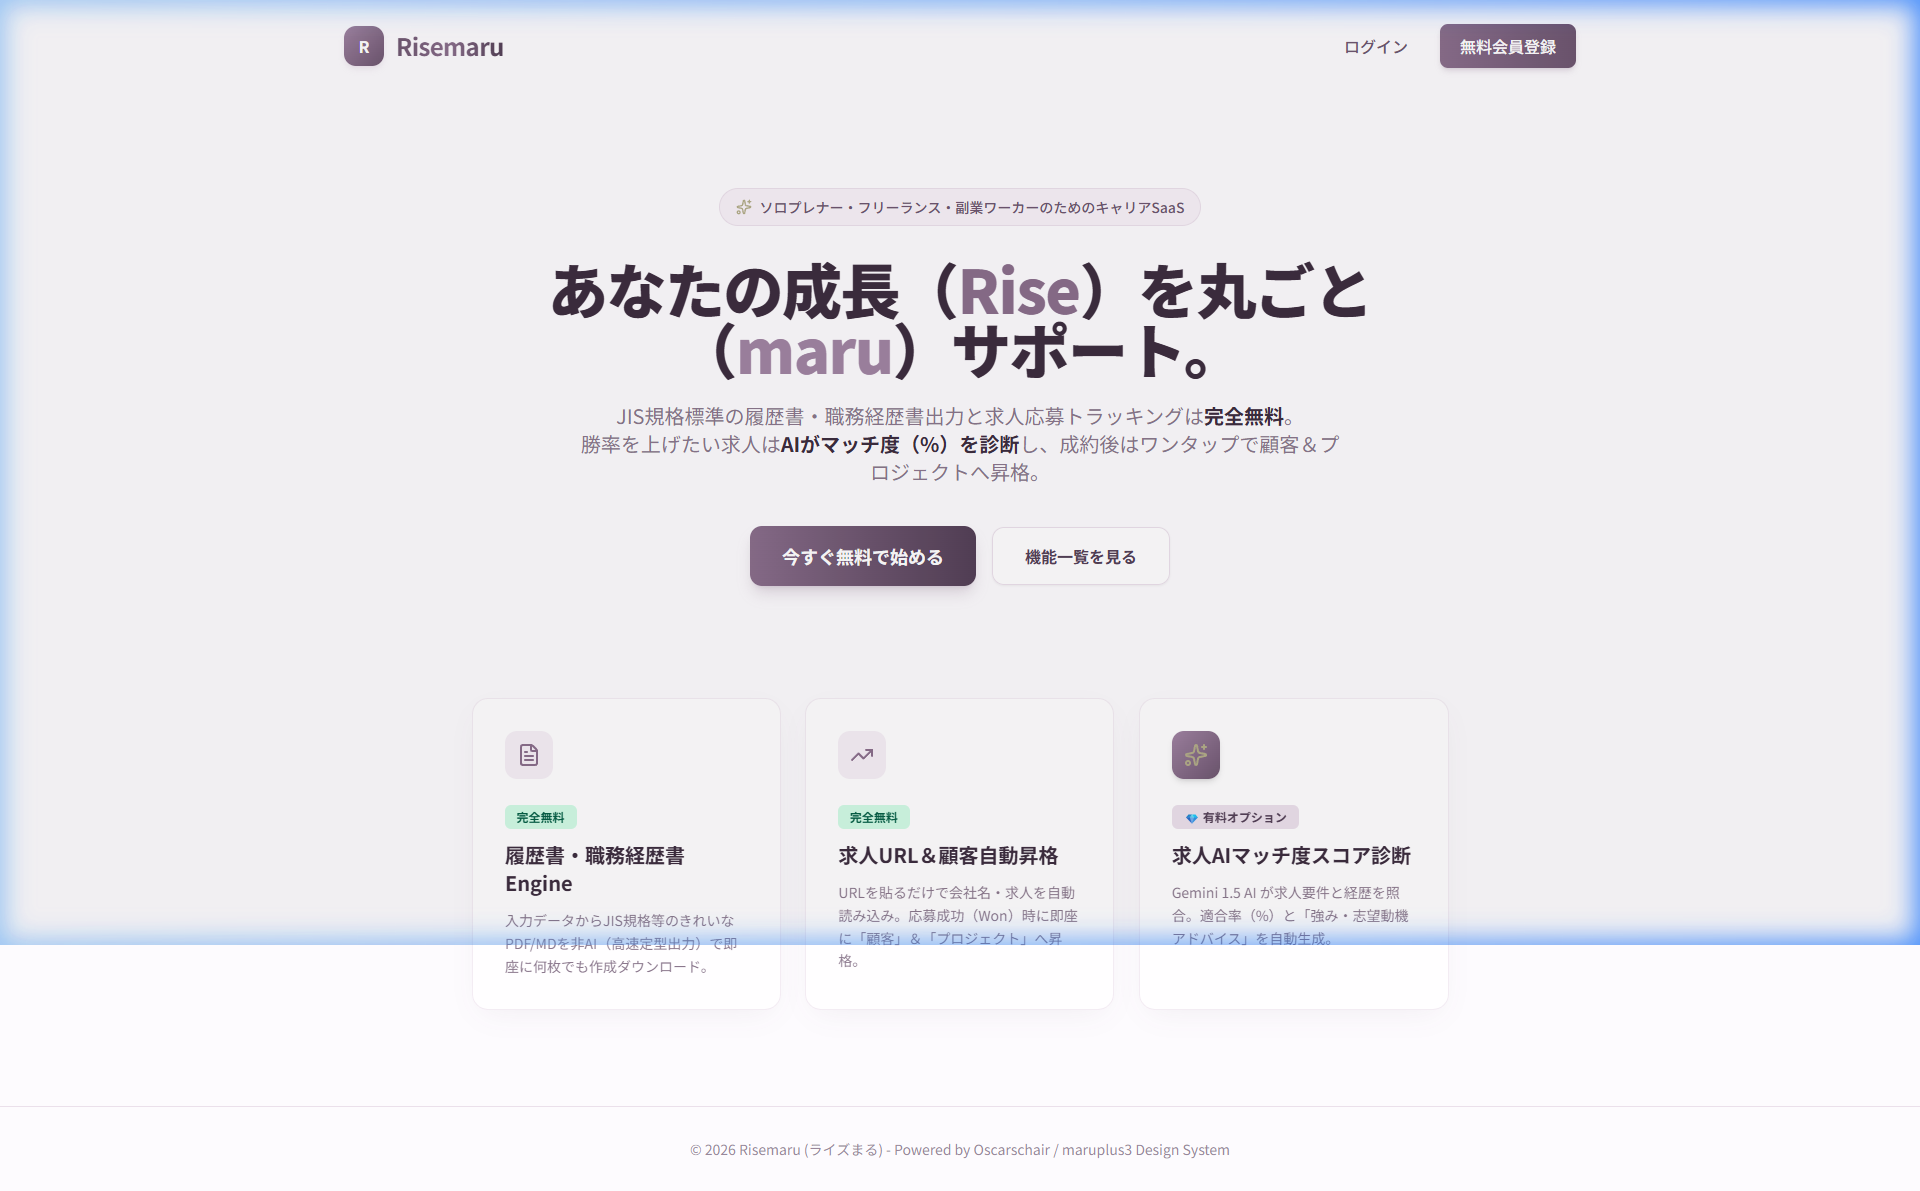
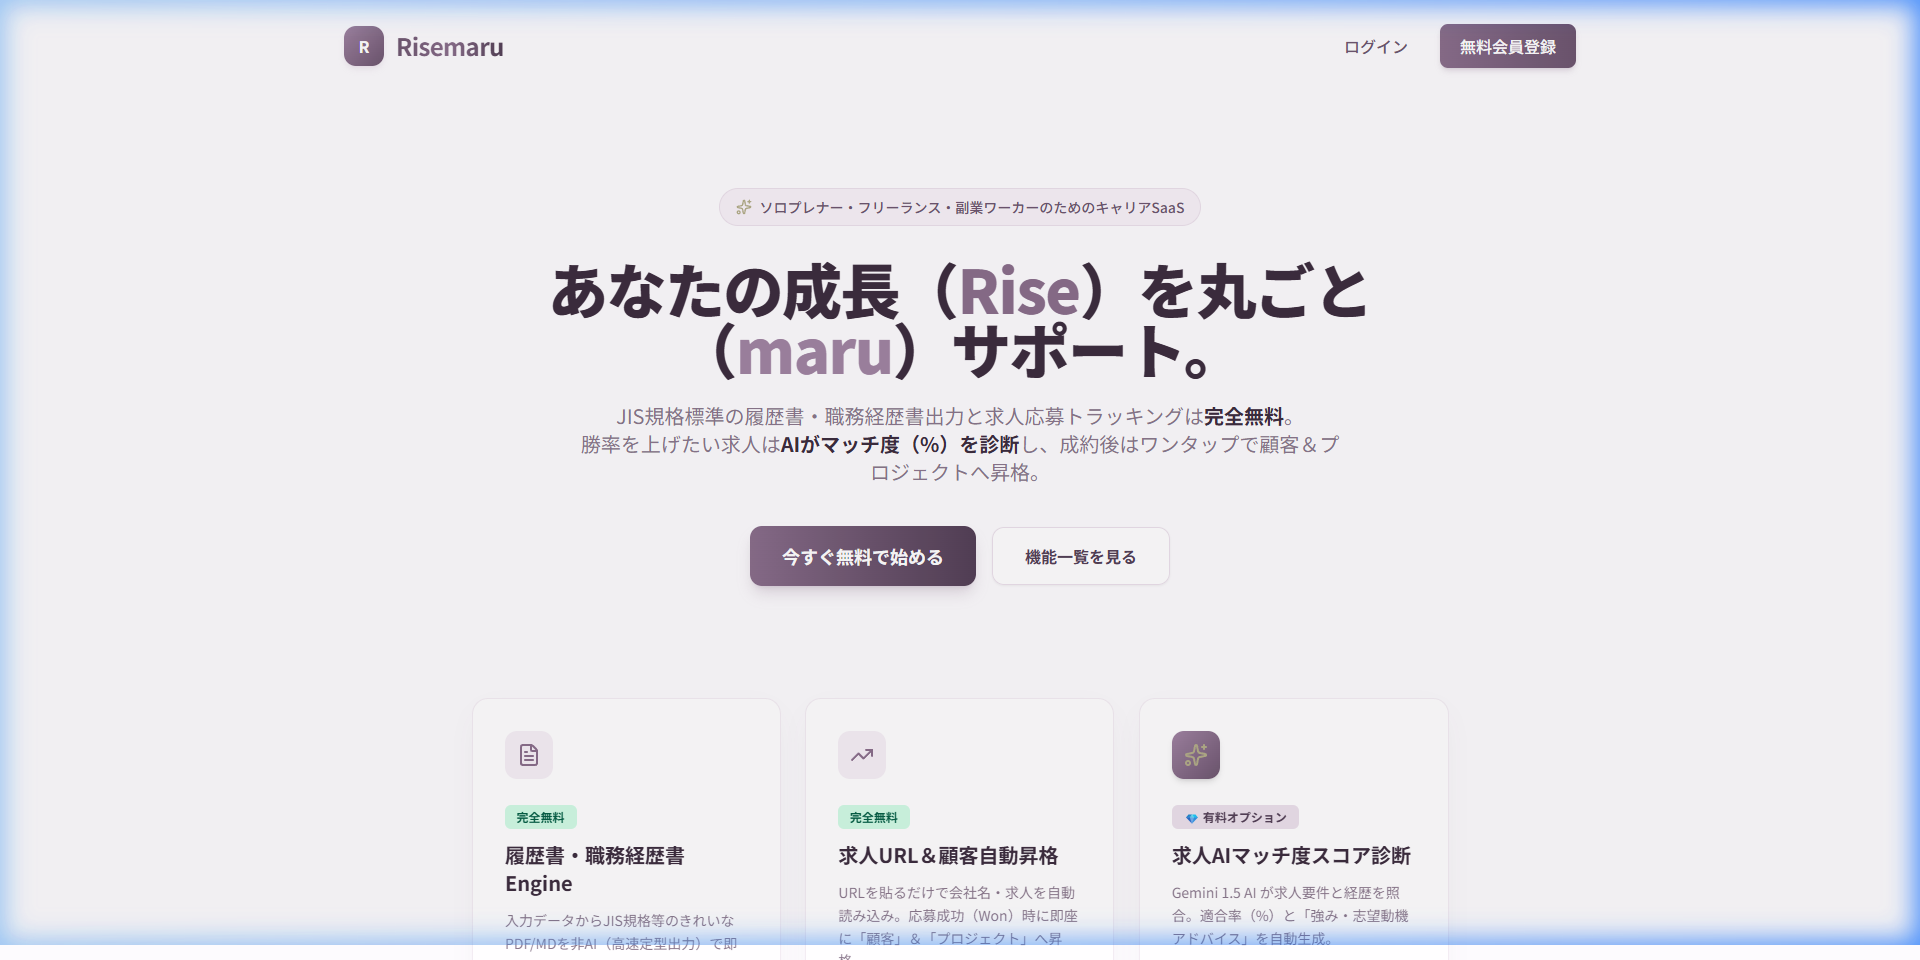
fix: プロダクトページの各プレビュー画像をコンパクトファーストビュー領域(1920x960)に裁断し、CSS最大高さを最適化

diff --git a/template-product.php b/template-product.php
@@ -46,7 +46,7 @@ get_header();
 
         <!-- Product 1: GEOマル (geomaru) -->
         <section id="geomaru" class="product-card product-card--geomaru bg-white rounded-3xl shadow-xl p-8 md:p-12 border-t-4 border-purple-500 hover:shadow-2xl transition-all duration-500 border border-gray-100">
-            <div class="product-card__inner flex flex-col lg:flex-row items-stretch gap-12 group">
+            <div class="product-card__inner flex flex-col lg:flex-row items-center gap-10 group">
                 <!-- Content Area -->
                 <div class="product-card__content lg:w-1/2 flex flex-col justify-between space-y-6">
                     <div class="product-card__header-group">
@@ -105,10 +105,10 @@ get_header();
                     </div>
                 </div>
 
-                <!-- Media Preview Frame (Real Screenshot Image) -->
+                <!-- Media Preview Frame (Optimized & Compact Height) -->
                 <div class="product-card__media lg:w-1/2 flex items-center justify-center">
-                    <div class="product-card__media-wrapper relative overflow-hidden rounded-2xl shadow-lg border border-gray-200 group-hover:scale-[1.02] transition-transform duration-500 w-full bg-gray-100">
-                        <img src="<?php echo get_template_directory_uri(); ?>/assets/img/geomaru-preview.png" alt="GEOマル (geomaru) ランディングページ画像" class="product-card__image w-full h-auto block object-cover">
+                    <div class="product-card__media-wrapper relative overflow-hidden rounded-2xl shadow-lg border border-gray-200 group-hover:scale-[1.02] transition-transform duration-500 w-full max-h-[320px] md:max-h-[360px] bg-gray-100 flex items-start">
+                        <img src="<?php echo get_template_directory_uri(); ?>/assets/img/geomaru-preview.png" alt="GEOマル (geomaru) ランディングページ画像" class="product-card__image w-full h-auto block object-cover object-top">
                     </div>
                 </div>
             </div>
@@ -116,7 +116,7 @@ get_header();
 
         <!-- Product 2: STOCKSマル (stocksmaru) -->
         <section id="stocksmaru" class="product-card product-card--stocksmaru bg-white rounded-3xl shadow-xl p-8 md:p-12 border-t-4 border-indigo-600 hover:shadow-2xl transition-all duration-500 border border-gray-100">
-            <div class="product-card__inner flex flex-col lg:flex-row items-stretch gap-12 group">
+            <div class="product-card__inner flex flex-col lg:flex-row items-center gap-10 group">
                 <!-- Content Area -->
                 <div class="product-card__content lg:w-1/2 flex flex-col justify-between space-y-6">
                     <div class="product-card__header-group">
@@ -175,10 +175,10 @@ get_header();
                     </div>
                 </div>
 
-                <!-- Media Preview Frame (Real Screenshot Image) -->
+                <!-- Media Preview Frame (Optimized & Compact Height) -->
                 <div class="product-card__media lg:w-1/2 flex items-center justify-center">
-                    <div class="product-card__media-wrapper relative overflow-hidden rounded-2xl shadow-lg border border-gray-200 group-hover:scale-[1.02] transition-transform duration-500 w-full bg-gray-100">
-                        <img src="<?php echo get_template_directory_uri(); ?>/assets/img/stocksmaru-preview.png" alt="STOCKSマル (stocksmaru) ランディングページ画像" class="product-card__image w-full h-auto block object-cover">
+                    <div class="product-card__media-wrapper relative overflow-hidden rounded-2xl shadow-lg border border-gray-200 group-hover:scale-[1.02] transition-transform duration-500 w-full max-h-[320px] md:max-h-[360px] bg-gray-100 flex items-start">
+                        <img src="<?php echo get_template_directory_uri(); ?>/assets/img/stocksmaru-preview.png" alt="STOCKSマル (stocksmaru) ランディングページ画像" class="product-card__image w-full h-auto block object-cover object-top">
                     </div>
                 </div>
             </div>
@@ -186,7 +186,7 @@ get_header();
 
         <!-- Product 3: RISEマル (risemaru) -->
         <section id="risemaru" class="product-card product-card--risemaru bg-white rounded-3xl shadow-xl p-8 md:p-12 border-t-4 border-rose-500 hover:shadow-2xl transition-all duration-500 border border-gray-100">
-            <div class="product-card__inner flex flex-col lg:flex-row items-stretch gap-12 group">
+            <div class="product-card__inner flex flex-col lg:flex-row items-center gap-10 group">
                 <!-- Content Area -->
                 <div class="product-card__content lg:w-1/2 flex flex-col justify-between space-y-6">
                     <div class="product-card__header-group">
@@ -245,10 +245,10 @@ get_header();
                     </div>
                 </div>
 
-                <!-- Media Preview Frame (Real Screenshot Image) -->
+                <!-- Media Preview Frame (Optimized & Compact Height) -->
                 <div class="product-card__media lg:w-1/2 flex items-center justify-center">
-                    <div class="product-card__media-wrapper relative overflow-hidden rounded-2xl shadow-lg border border-gray-200 group-hover:scale-[1.02] transition-transform duration-500 w-full bg-gray-100">
-                        <img src="<?php echo get_template_directory_uri(); ?>/assets/img/risemaru-preview.png" alt="RISEマル (risemaru) ランディングページ画像" class="product-card__image w-full h-auto block object-cover">
+                    <div class="product-card__media-wrapper relative overflow-hidden rounded-2xl shadow-lg border border-gray-200 group-hover:scale-[1.02] transition-transform duration-500 w-full max-h-[320px] md:max-h-[360px] bg-gray-100 flex items-start">
+                        <img src="<?php echo get_template_directory_uri(); ?>/assets/img/risemaru-preview.png" alt="RISEマル (risemaru) ランディングページ画像" class="product-card__image w-full h-auto block object-cover object-top">
                     </div>
                 </div>
             </div>
